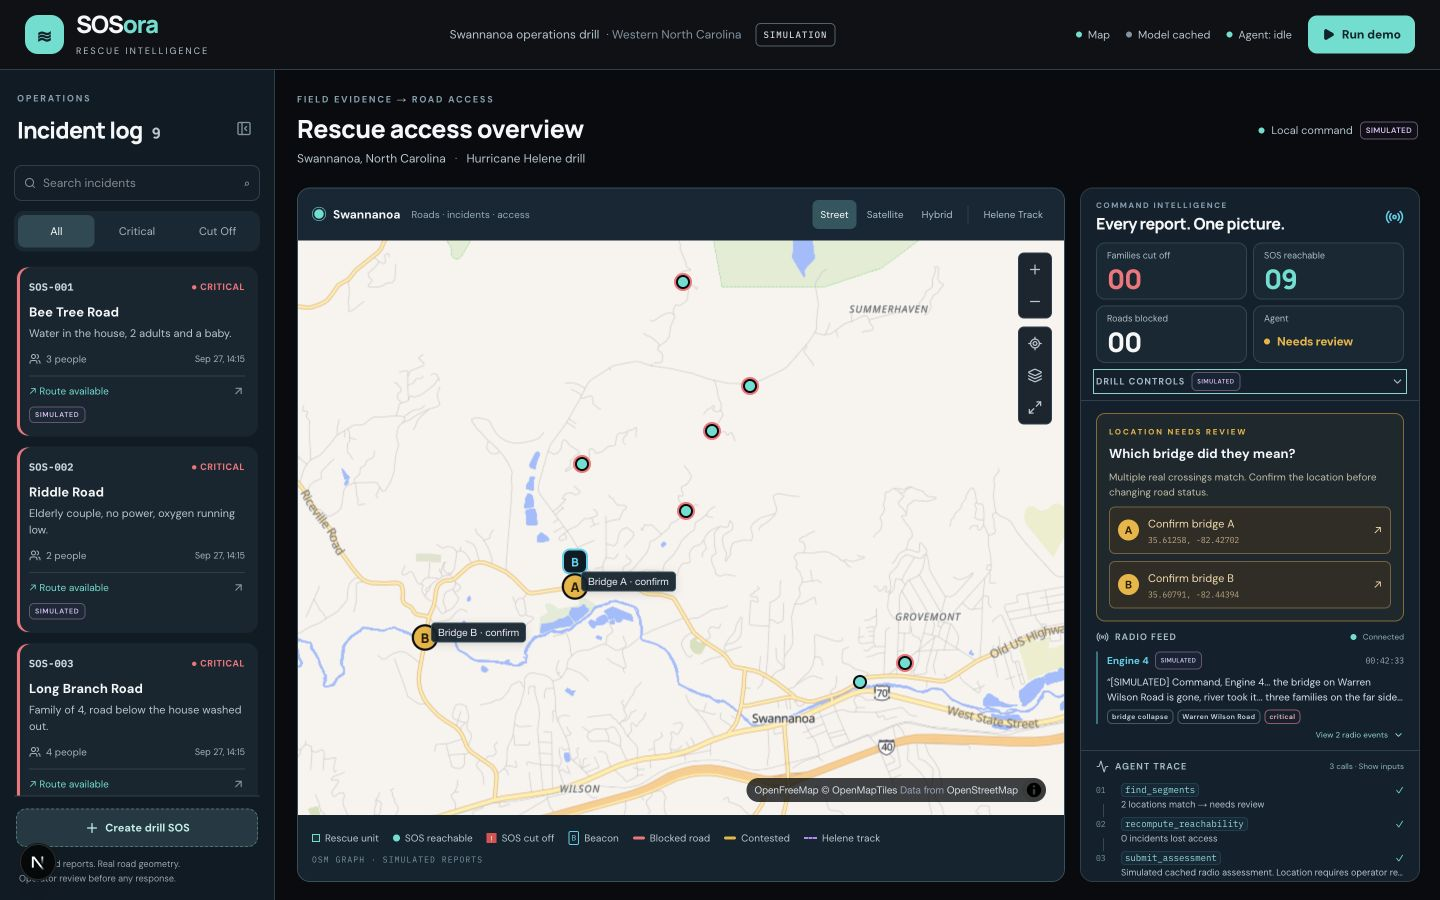
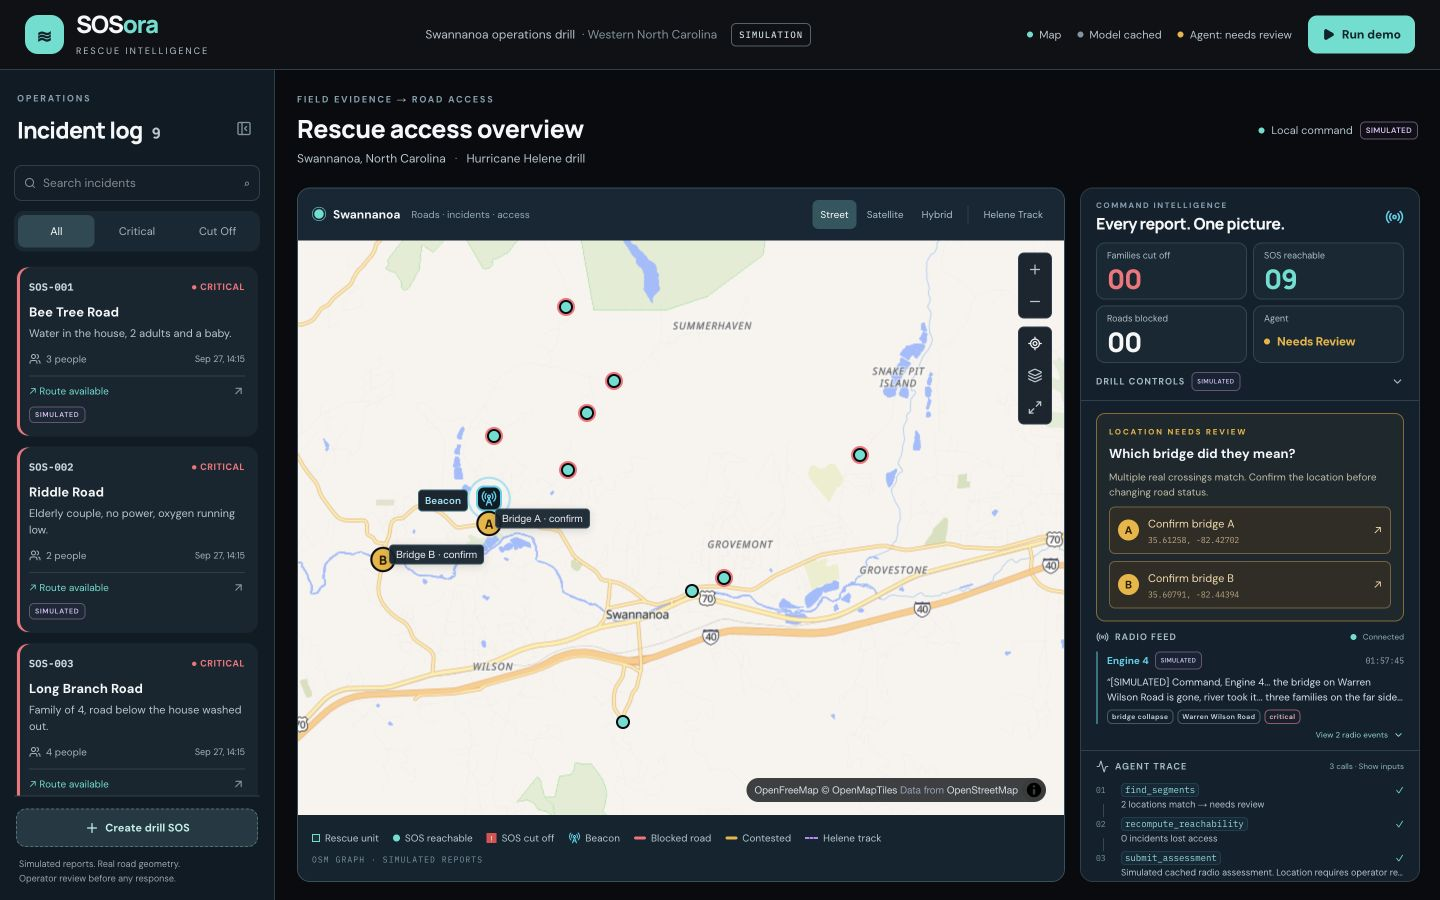
Refresh UI screenshots and publish clean vLLM results in README

diff --git a/docs/CONTEXT.md b/docs/CONTEXT.md
@@ -74,7 +74,7 @@ Bounties: Nemotron Lightning, NeMo Gym model improvement, Red Hat vLLM.
 ## Status (update this table)
 | Item | Status | Evidence |
 |---|---|---|
-| Merge ML + dashboard into `integration` | Done locally, **NOT PUSHED** as of 23:15 | `git log integration` |
+| Merge ML + dashboard into `integration` | Integrated UI merge and reviewed corrections complete | `git log integration`, `docs/screenshots/` |
 | Radio parse (Lightning) | Works live, 2.7-4.1 s/message | live run 2026-10-17 ~23:00 |
 | Agent + trust rule, real OSM graph | Works in demo replay; live Lightning resolves the right bridge | `backend/tests/test_radio_api.py` |
 | Live agent speed | H100 vLLM: five hero runs passed; mean total 12.442 s, mean agent call 0.852 s | `docs/VLLM_RESULTS.md`, `docs/evidence/vllm_2026-10-17/hero_final_native.json` |
@@ -83,11 +83,11 @@ Bounties: Nemotron Lightning, NeMo Gym model improvement, Red Hat vLLM.
 | ASR model | Not chosen/served | `backend/app/asr.py` TODO |
 | Gym results | Clean vLLM: validation 8/14 baseline vs 2/14 evidence_first; test 7/14 vs 4/14; zero provider errors across 56 scenarios | `docs/GYM_RESULTS.md`, `ml/nemo_gym/evidence/vllm_2026-10-17/protocol.json` |
 | vLLM on Brev | Complete; Lightning BF16 H100 verified; GPU STOPPED, disk retained | `docs/VLLM_RESULTS.md`, `docs/evidence/vllm_2026-10-17/hardware.json` |
-| Dashboard wired to radio flow | Jia’s design ported to Next.js; OpsConsole controls, streamed radio/tool trace, bridge confirmation, KPI tiles, Beacon/shockwave markers and Helene overlay verified; screenshot review pending before push/PR | `docs/screenshots/`, `docs/evidence/ui_merge_2026-10-18/` |
+| Dashboard wired to radio flow | Jia’s design ported to Next.js; OpsConsole controls, streamed radio/tool trace, bridge confirmation, KPI tiles, Beacon/shockwave markers and Helene overlay verified; reviewed corrections: physical closure counts, radio-icon Beacon marker, shared agent state, hidden dev indicator and 7px closure line; screenshot retakes complete | `docs/screenshots/`, `docs/evidence/ui_merge_2026-10-18/` |
 | Video | Not started | |
 
 ## Open issues / gotchas
-- UI merge is local and awaiting Ria’s screenshot review before pushing `integration` / opening the PR. `dashboard/` and `ios-app/` were not modified.
+- Ria authorized pushing the UI merge and corrections after screenshot retakes; see the latest Changelog entry. UI changes do not modify `dashboard/` or `ios-app/`.
 - Command needs `websockets` (now pinned in `backend/requirements.txt`) for streamed events. Build alongside dev with `SOSORA_NEXT_DIST_DIR=.next-build npm run build` to avoid replacing the dev cache. Google Fonts are fetched at build time and served locally afterward; street/satellite basemap tiles still need network/cache.
 - Beacon delivery is at-least-once: UUIDs and Idempotency-Key persist, but Command audio/reading endpoints do not deduplicate. Lost acknowledgements can duplicate events. Use `--flush` to resume an offline replay without enqueuing it again.
 - Fake sensor must target Command with `DEMO_MODE=true`: the backend currently ignores the posted simulated flag and derives source labels from its own demo setting. Real Pi mic/sensor/button and physical Wi-Fi unplug are unverified.
@@ -104,6 +104,7 @@ Bounties: Nemotron Lightning, NeMo Gym model improvement, Red Hat vLLM.
   query per incident on the 86k-edge graph. Optimization: one single-source Dijkstra from the base.
 
 ## Changelog (newest first)
+- 2026-10-18 02:00 Codex: corrected physical closure counts (opposite edge directions deduped), RadioTower Beacon icon/label, shared idle/working/needs-review status, disabled dev indicators, and 7px red closure line with dark casing. Production build and 8 frontend tests pass; hero and ambiguity screenshots retaken at both requested sizes and shown before push. README now reports the clean vLLM Gym table and measured hero speed, with no policy-improvement or Red Hat image claim. Evidence: `docs/evidence/ui_corrections_2026-10-18/`.
 - 2026-10-18 00:48 Codex: UI merge Steps 0–5 completed on the existing Claude palette/fonts/track groundwork. Verified S→B, S→R→confirm eastern bridge→D (no reopening), S→W, primary Run demo, Helene track and incident details. Each closure flow cuts off 5 of 9 SOS incidents; 6 frontend tests and 30 backend tests pass, production build passes. Screenshots at 1440×900 and 1920×1080 saved in `docs/screenshots/`; local commit/docs ready, push/PR held for requested visual review.
 - 2026-10-18 00:18 Codex: wired backend incident reachable/route fields through the dashboard queue, map markers, list and intelligence panel. Missing access and snap failures remain unknown; route existence is not verified passability. Node regression tests and TypeScript check pass; live dashboard confirmed SOS-001 through SOS-005 show No road access while the other seeded incidents retain routes.
 - 23:51 Codex: Job A done: H100 Lightning BF16 vLLM; final hero 5/5, mean 12.442 s; clean Gym test baseline 7/14 vs evidence_first 4/14, no provider errors across 56 scenarios; surge 200/200; GPU STOPPED. Results, commands and restart instructions in `docs/VLLM_RESULTS.md` and `docs/GYM_RESULTS.md`. Do not claim evidence_first improvement or a verified Red Hat-distributed image.

diff --git a/README.md b/README.md
@@ -60,16 +60,37 @@ avoided until verified.
 ## Why these technologies
 - **Nemotron 3.5 Lightning** is the only generative LLM (hackathon cap: 33B total). It is fast
   enough for an agent loop and strong at structured tool calls.
-- **Red Hat vLLM** serves it on one GPU, so the whole system can run in a command vehicle
-  with no internet and handle many radio channels at once.
+- **vLLM on one NVIDIA H100** serves Lightning through the configured `redhat_vllm` adapter.
+  The verified deployment used upstream vLLM, not a verified Red Hat-distributed image.
+  [Serving evidence](docs/VLLM_RESULTS.md).
 - **NeMo Gym** gives fixed tasks and a verifier, so we can measure whether the agent improves.
 - **Small models** are the point: the state's own review asks for 72 hours with no comms.
 
 ## Results (measured; see evidence folders)
-- **Agent policy, NeMo Gym, 14 held-out test scenarios** (Nemotron Lightning, hosted API):
-  baseline 1/14 -> evidence-first prompting 4/14. Caveat: these runs had 18 provider HTTP
-  errors and 5 timeouts, counted as failures. Rerun on vLLM pending.
-  [`ml/nemo_gym/evidence/rollouts_2026-10-17/summary.md`](ml/nemo_gym/evidence/rollouts_2026-10-17/summary.md)
+
+**NeMo Gym, clean Brev vLLM runs:** frozen simulated tasks and policies, using the
+pinned tools/verifier. No weights changed and no RL was performed.
+
+| Split | Policy | Pass / requested | Provider errors | Mean recorded request ms |
+|---|---|---:|---:|---:|
+| validation | baseline | 8/14 | 0 | 427.4 |
+| validation | evidence_first | 2/14 | 0 | 532.1 |
+| test | baseline | 7/14 | 0 | 403.4 |
+| test | evidence_first | 4/14 | 0 | 520.6 |
+
+Baseline outperformed the frozen evidence-first prompt on both splits. These scores
+do **not** establish real-world rescue safety or an evidence-first improvement.
+The earlier hosted runs had transport failures and are not the headline policy result.
+[Full comparison, methodology and caveats](docs/GYM_RESULTS.md).
+
+**Live vLLM speed:** earlier hosted API observations were **24–55 seconds per agent
+turn**. On the NVIDIA H100 vLLM deployment, the final five live hero runs all passed:
+**mean agent call 0.852 seconds** across 30 calls and **mean hero API run 12.442 seconds**,
+including parsing and graph work. Gym request means above use a different task protocol;
+these serving configurations are not a controlled hardware-only comparison.
+[Hero measurements](docs/VLLM_RESULTS.md#final-hero-measurements) ·
+[Earlier hosted observations](docs/briefs/BREV_VLLM_CODEX.md).
+
 - **Vision fine-tune** (SegFormer-B0, 3.7M params), frozen cross-event check on 6 unseen
   Germany flood tiles: F1 0.23 -> 0.47 versus the same model before fine-tuning.
   [`docs/ml/FROZEN_EXTERNAL_EVALUATION.md`](docs/ml/FROZEN_EXTERNAL_EVALUATION.md)
@@ -93,6 +114,7 @@ fixtures; tool execution and reachability run against the real graph.
 
 [1920×1080 hero view](docs/screenshots/ui-hero-1920x1080.png) ·
 [Ambiguous bridge review](docs/screenshots/ui-ambiguity-1440x900.png) ·
+[1920×1080 bridge review](docs/screenshots/ui-ambiguity-1920x1080.png) ·
 [NHC Helene track](docs/screenshots/ui-helene-1920x1080.png) ·
 [Incident details](docs/screenshots/ui-incident-1920x1080.png)
 
@@ -122,7 +144,7 @@ curl -X POST localhost:8000/api/radio -H 'content-type: application/json' \
 Live models: set `DEMO_MODE=false` and `NVIDIA_API_KEY` (hosted) or `LLM_BASE_URL` /
 `LLM_MODEL` / `LLM_API_KEY` (your vLLM server). ML service: see `docs/ml/` (Python 3.12).
 
-Tests: `cd backend && pytest` (28 tests).
+Tests: `cd backend && pytest -q`.
 
 ## Repository map
 `backend/` app API, agent, radio + beacon endpoints · `ml/` model service, Gym, vision ·
